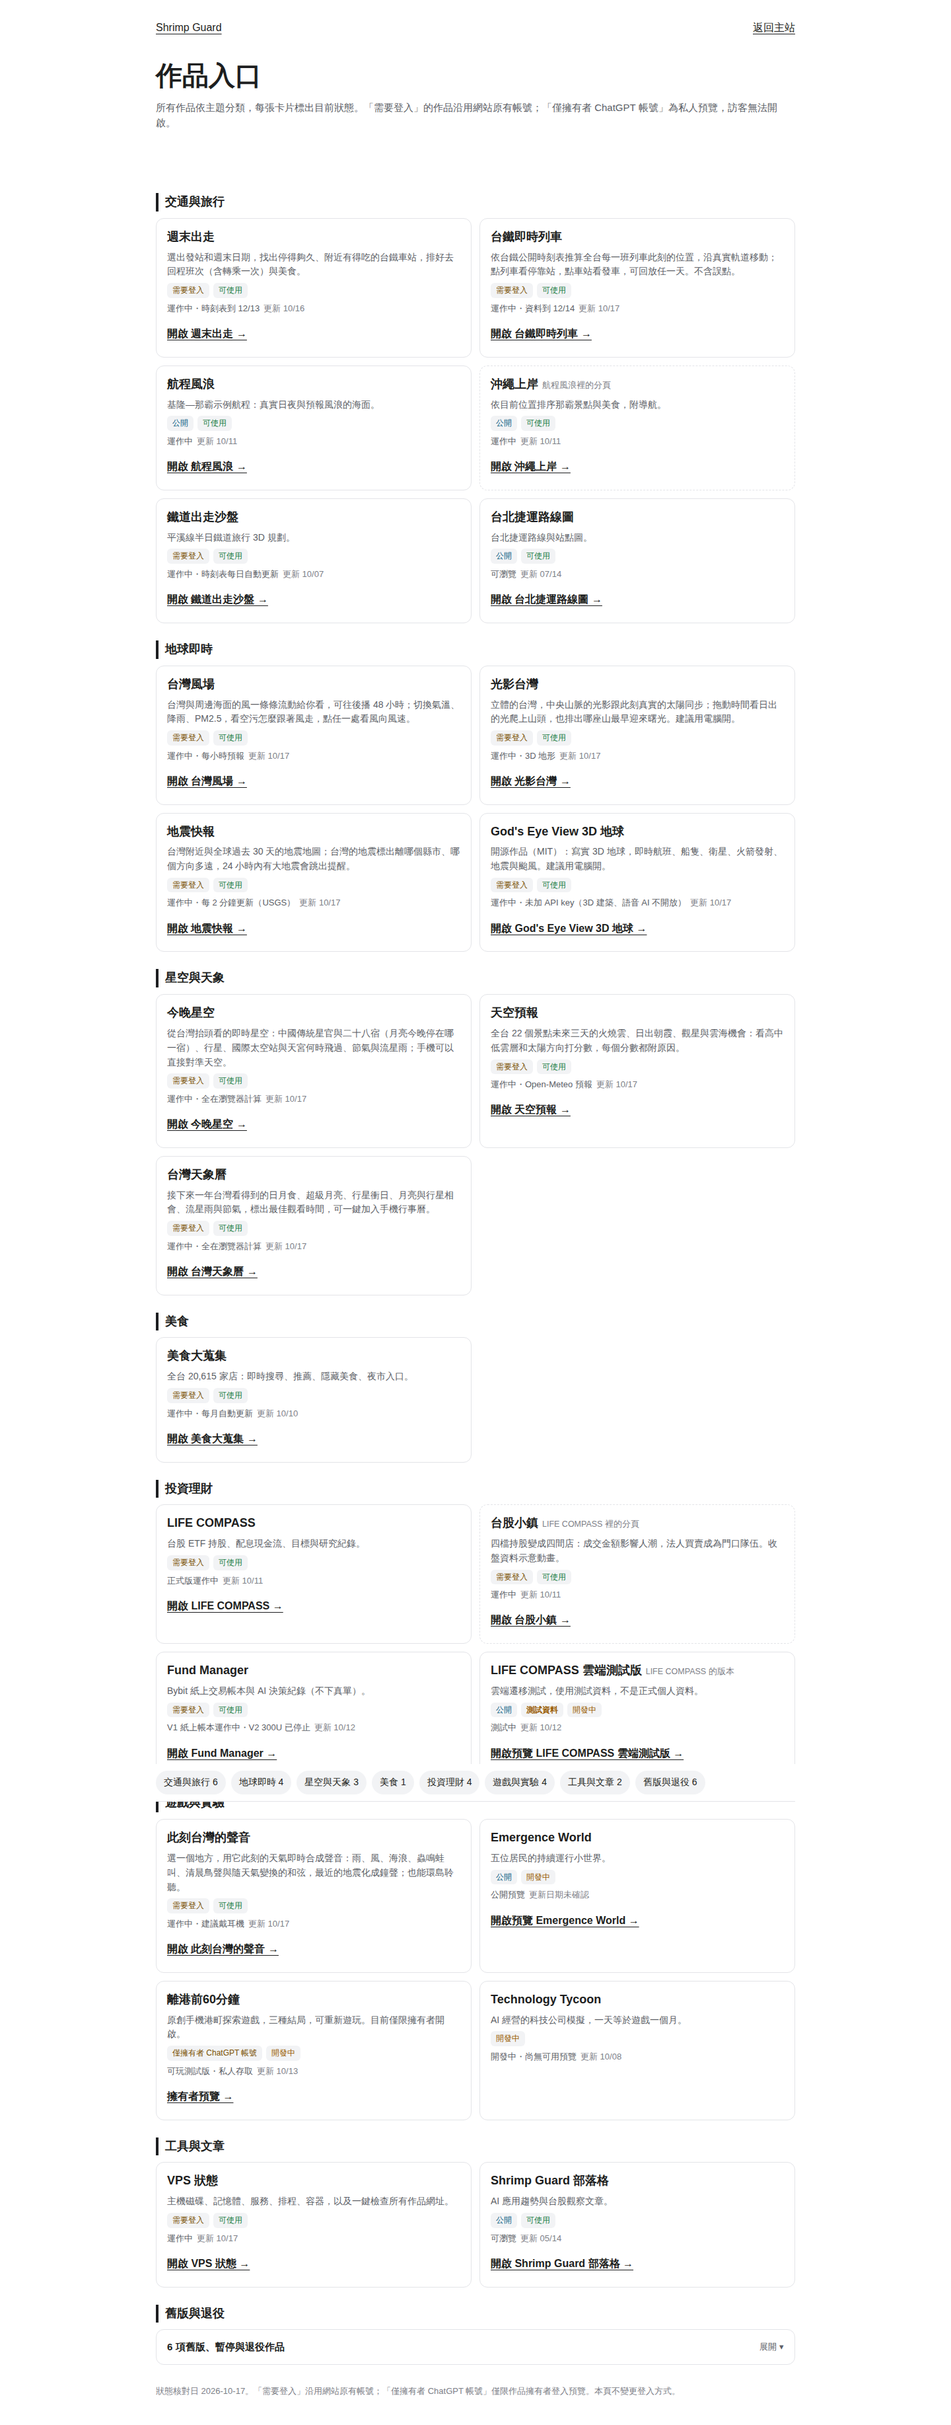
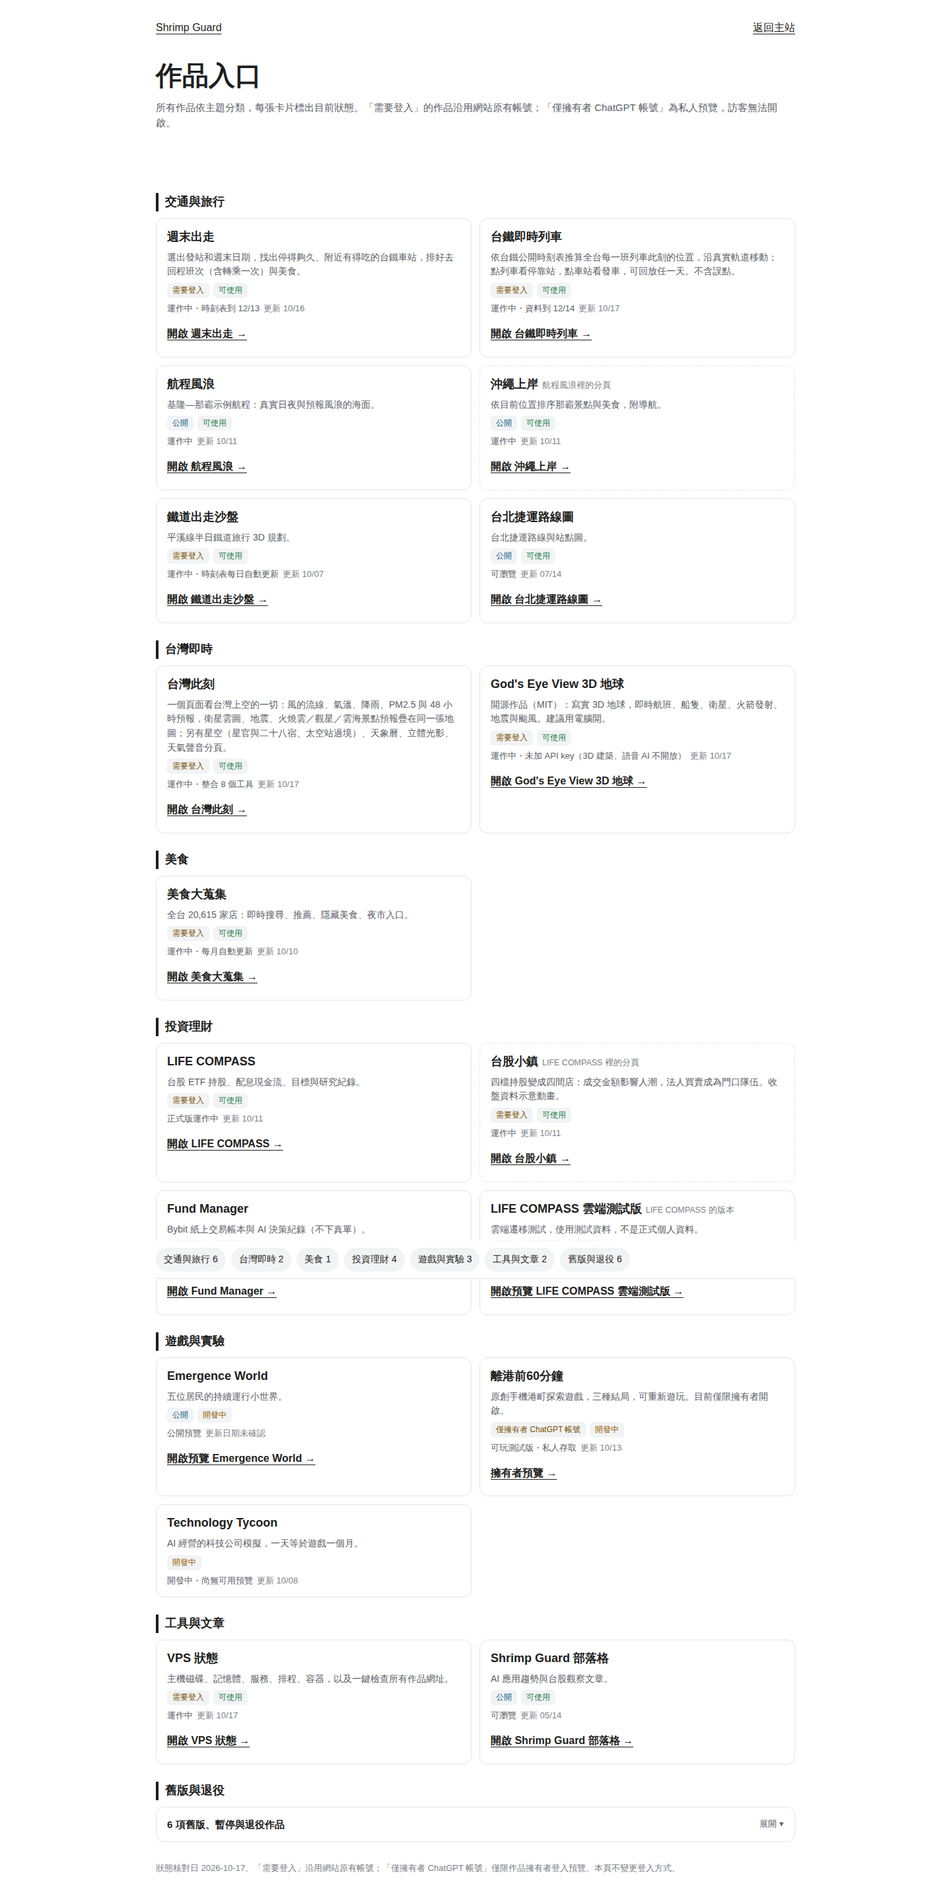
projects: merge 7 Taiwan sky/earth tools into one card 台灣此刻 (24 works)
Claude-Session: https://claude.ai/code/session_01GVcRfQhdVaSGc69DiKrmzk

diff --git a/overlays/projects/index.html b/overlays/projects/index.html
@@ -1,0 +1,28 @@
+<!doctype html><html lang="zh-Hant"><head><meta charset="utf-8"><meta name="viewport" content="width=device-width,initial-scale=1"><title>作品入口 · Shrimp Guard</title><meta name="description" content="Shrimp Guard 所有作品與目前狀態。"><style>
+:root{color-scheme:light dark;--bg:#fff;--card:#fff;--ink:#1d1e20;--ink2:#5b5e66;--ink3:#7d8087;--line:#e3e4e8;--chip:#f2f3f5;--ok:#1d7f46;--dev:#9a5c00;--old:#6c6f77;--ask:#5b43b0;--lock:#7a5000;--pub:#0a5f85}
+@media (prefers-color-scheme:dark){:root{--bg:#1d1e20;--card:#26272b;--ink:#dadadb;--ink2:#b0b2b7;--ink3:#8c8f96;--line:#38393e;--chip:#313237;--ok:#57c785;--dev:#e3a23a;--old:#a3a6ad;--ask:#ad98f2;--lock:#e5b864;--pub:#64bde4}}
+*{box-sizing:border-box}body{margin:0;background:var(--bg);color:var(--ink);font-family:-apple-system,BlinkMacSystemFont,"Segoe UI","PingFang TC","Noto Sans TC",sans-serif;line-height:1.55}
+.shell{max-width:1000px;margin:auto;padding:20px 16px 40px}
+nav.top{display:flex;justify-content:space-between;align-items:center}nav.top a{color:var(--ink);padding:10px 0;text-decoration:underline;text-underline-offset:4px}
+h1{font-size:clamp(28px,5vw,40px);margin:18px 0 6px}.intro{color:var(--ink2);margin:0;font-size:15px}
+.jump{position:sticky;top:0;z-index:2;background:var(--bg);display:flex;gap:8px;overflow-x:auto;padding:10px 0;margin-top:12px;border-bottom:1px solid var(--line)}
+.jump a{flex:none;font-size:14px;padding:7px 12px;border-radius:999px;background:var(--chip);color:var(--ink);text-decoration:none;white-space:nowrap}
+section{scroll-margin-top:60px}h2{font-size:18px;margin:26px 0 10px;padding-left:10px;border-left:4px solid var(--ink)}
+.grid{display:grid;grid-template-columns:repeat(2,minmax(0,1fr));gap:12px}
+.card{background:var(--card);border:1px solid var(--line);border-radius:12px;padding:14px 16px;display:flex;flex-direction:column;gap:6px;min-width:0}
+.card.sub{border-style:dashed}
+.name{font-size:18px;font-weight:700;margin:0}.of{font-size:12.5px;color:var(--ink3);font-weight:400;margin-left:6px}
+.desc{font-size:14px;color:var(--ink2);margin:0}
+.tags{display:flex;gap:6px;flex-wrap:wrap;margin:0;padding:0;list-style:none}
+.tags li{font-size:12px;padding:2px 8px;border-radius:6px;background:var(--chip);color:var(--ink2)}
+.tags .pub{color:var(--pub)}.tags .lock{color:var(--lock)}.tags .ok{color:var(--ok)}.tags .dev{color:var(--dev)}.tags .old{color:var(--old)}.tags .ask{color:var(--ask)}.tags .test{color:var(--dev);font-weight:700}
+.st{font-size:13px;color:var(--ink2);margin:0}.st time{color:var(--ink3);margin-left:6px}
+.open{margin:2px 0 0}.open a{display:inline-block;padding:8px 0;color:var(--ink);font-weight:700;text-decoration:underline;text-underline-offset:4px}
+details{border:1px solid var(--line);border-radius:12px;background:var(--card)}
+summary{cursor:pointer;padding:14px 16px;font-size:15px;font-weight:700;display:flex;justify-content:space-between;align-items:center}
+summary::-webkit-details-marker{display:none}summary::after{content:"展開 ▾";font-size:13px;font-weight:500;color:var(--ink2)}details[open] summary::after{content:"收合 ▴"}
+details .grid{padding:0 12px 12px}
+footer{margin-top:28px;font-size:13px;color:var(--ink3);line-height:1.8}
+a:focus-visible,summary:focus-visible{outline:3px solid #6797c0;outline-offset:4px}
+@media(max-width:600px){.grid{grid-template-columns:1fr}}
+</style></head><body><div class="shell"><nav class="top" aria-label="網站導覽"><a href="/">Shrimp Guard</a><a href="/">返回主站</a></nav><main><h1>作品入口</h1><p class="intro">所有作品依主題分類，每張卡片標出目前狀態。「需要登入」的作品沿用網站原有帳號；「僅擁有者 ChatGPT 帳號」為私人預覽，訪客無法開啟。</p><nav class="jump" aria-label="分類"><a href="#travel">交通與旅行 6</a><a href="#live">台灣即時 2</a><a href="#food">美食 1</a><a href="#money">投資理財 4</a><a href="#lab">遊戲與實驗 3</a><a href="#tools">工具與文章 2</a><a href="#old">舊版與退役 6</a></nav><section id="travel" aria-label="交通與旅行"><h2>交通與旅行</h2><div class="grid"><article class="card"><h3 class="name">週末出走</h3><p class="desc">選出發站和週末日期，找出停得夠久、附近有得吃的台鐵車站，排好去回程班次（含轉乘一次）與美食。</p><ul class="tags"><li class="lock">需要登入</li><li class="ok">可使用</li></ul><p class="st">運作中・時刻表到 12/13<time>更新 10/16</time></p><p class="open"><a href="https://dashboard.shrimp-guard.us.ci/weekend/">開啟 週末出走 →</a></p></article><article class="card"><h3 class="name">台鐵即時列車</h3><p class="desc">依台鐵公開時刻表推算全台每一班列車此刻的位置，沿真實軌道移動；點列車看停靠站，點車站看發車，可回放任一天。不含誤點。</p><ul class="tags"><li class="lock">需要登入</li><li class="ok">可使用</li></ul><p class="st">運作中・資料到 12/14<time>更新 10/17</time></p><p class="open"><a href="https://dashboard.shrimp-guard.us.ci/apps/rail-live/">開啟 台鐵即時列車 →</a></p></article><article class="card"><h3 class="name">航程風浪</h3><p class="desc">基隆—那霸示例航程：真實日夜與預報風浪的海面。</p><ul class="tags"><li class="pub">公開</li><li class="ok">可使用</li></ul><p class="st">運作中<time>更新 10/11</time></p><p class="open"><a href="/room/">開啟 航程風浪 →</a></p></article><article class="card sub"><h3 class="name">沖繩上岸<span class="of">航程風浪裡的分頁</span></h3><p class="desc">依目前位置排序那霸景點與美食，附導航。</p><ul class="tags"><li class="pub">公開</li><li class="ok">可使用</li></ul><p class="st">運作中<time>更新 10/11</time></p><p class="open"><a href="/room/#landing">開啟 沖繩上岸 →</a></p></article><article class="card"><h3 class="name">鐵道出走沙盤</h3><p class="desc">平溪線半日鐵道旅行 3D 規劃。</p><ul class="tags"><li class="lock">需要登入</li><li class="ok">可使用</li></ul><p class="st">運作中・時刻表每日自動更新<time>更新 10/07</time></p><p class="open"><a href="https://dashboard.shrimp-guard.us.ci/rail-trip/">開啟 鐵道出走沙盤 →</a></p></article><article class="card"><h3 class="name">台北捷運路線圖</h3><p class="desc">台北捷運路線與站點圖。</p><ul class="tags"><li class="pub">公開</li><li class="ok">可使用</li></ul><p class="st">可瀏覽<time>更新 07/14</time></p><p class="open"><a href="/taipei-mrt/">開啟 台北捷運路線圖 →</a></p></article></div></section><section id="live" aria-label="台灣即時"><h2>台灣即時</h2><div class="grid"><article class="card"><h3 class="name">台灣此刻</h3><p class="desc">一個頁面看台灣上空的一切：風的流線、氣溫、降雨、PM2.5 與 48 小時預報，衛星雲圖、地震、火燒雲／觀星／雲海景點預報疊在同一張地圖；另有星空（星官與二十八宿、太空站過境）、天象曆、立體光影、天氣聲音分頁。</p><ul class="tags"><li class="lock">需要登入</li><li class="ok">可使用</li></ul><p class="st">運作中・整合 8 個工具<time>更新 10/17</time></p><p class="open"><a href="https://dashboard.shrimp-guard.us.ci/apps/taiwan/">開啟 台灣此刻 →</a></p></article><article class="card"><h3 class="name">God&#x27;s Eye View 3D 地球</h3><p class="desc">開源作品（MIT）：寫實 3D 地球，即時航班、船隻、衛星、火箭發射、地震與颱風。建議用電腦開。</p><ul class="tags"><li class="lock">需要登入</li><li class="ok">可使用</li></ul><p class="st">運作中・未加 API key（3D 建築、語音 AI 不開放）<time>更新 10/17</time></p><p class="open"><a href="https://dashboard.shrimp-guard.us.ci/globe/">開啟 God&#x27;s Eye View 3D 地球 →</a></p></article></div></section><section id="food" aria-label="美食"><h2>美食</h2><div class="grid"><article class="card"><h3 class="name">美食大蒐集</h3><p class="desc">全台 20,615 家店：即時搜尋、推薦、隱藏美食、夜市入口。</p><ul class="tags"><li class="lock">需要登入</li><li class="ok">可使用</li></ul><p class="st">運作中・每月自動更新<time>更新 10/10</time></p><p class="open"><a href="https://dashboard.shrimp-guard.us.ci/food-map/">開啟 美食大蒐集 →</a></p></article></div></section><section id="money" aria-label="投資理財"><h2>投資理財</h2><div class="grid"><article class="card"><h3 class="name">LIFE COMPASS</h3><p class="desc">台股 ETF 持股、配息現金流、目標與研究紀錄。</p><ul class="tags"><li class="lock">需要登入</li><li class="ok">可使用</li></ul><p class="st">正式版運作中<time>更新 10/11</time></p><p class="open"><a href="https://dashboard.shrimp-guard.us.ci/one-life/">開啟 LIFE COMPASS →</a></p></article><article class="card sub"><h3 class="name">台股小鎮<span class="of">LIFE COMPASS 裡的分頁</span></h3><p class="desc">四檔持股變成四間店：成交金額影響人潮，法人買賣成為門口隊伍。收盤資料示意動畫。</p><ul class="tags"><li class="lock">需要登入</li><li class="ok">可使用</li></ul><p class="st">運作中<time>更新 10/11</time></p><p class="open"><a href="https://dashboard.shrimp-guard.us.ci/one-life/#town">開啟 台股小鎮 →</a></p></article><article class="card"><h3 class="name">Fund Manager</h3><p class="desc">Bybit 紙上交易帳本與 AI 決策紀錄（不下真單）。</p><ul class="tags"><li class="lock">需要登入</li><li class="ok">可使用</li></ul><p class="st">V1 紙上帳本運作中・V2 300U 已停止<time>更新 10/12</time></p><p class="open"><a href="https://dashboard.shrimp-guard.us.ci/fund-manager/">開啟 Fund Manager →</a></p></article><article class="card"><h3 class="name">LIFE COMPASS 雲端測試版<span class="of">LIFE COMPASS 的版本</span></h3><p class="desc">雲端遷移測試，使用測試資料，不是正式個人資料。</p><ul class="tags"><li class="pub">公開</li><li class="test">測試資料</li><li class="dev">開發中</li></ul><p class="st">測試中<time>更新 10/12</time></p><p class="open"><a href="https://life-compass.httpsmulticlawmoltidworkersdevcmolt32c002a10b29b0e3ad3.workers.dev/">開啟預覽 LIFE COMPASS 雲端測試版 →</a></p></article></div></section><section id="lab" aria-label="遊戲與實驗"><h2>遊戲與實驗</h2><div class="grid"><article class="card"><h3 class="name">Emergence World</h3><p class="desc">五位居民的持續運行小世界。</p><ul class="tags"><li class="pub">公開</li><li class="dev">開發中</li></ul><p class="st">公開預覽<time>更新日期未確認</time></p><p class="open"><a href="https://emergence-world-preview.httpsmulticlawmoltidworkersdevcmolt32c002a10b29b0e3ad3.workers.dev/">開啟預覽 Emergence World →</a></p></article><article class="card"><h3 class="name">離港前60分鐘</h3><p class="desc">原創手機港町探索遊戲，三種結局，可重新遊玩。目前僅限擁有者開啟。</p><ul class="tags"><li class="lock">僅擁有者 ChatGPT 帳號</li><li class="dev">開發中</li></ul><p class="st">可玩測試版・私人存取<time>更新 10/13</time></p><p class="open"><a href="https://harbor-sixty-minute-game.windy-maple-0615.chatgpt.site">擁有者預覽 →</a></p></article><article class="card"><h3 class="name">Technology Tycoon</h3><p class="desc">AI 經營的科技公司模擬，一天等於遊戲一個月。</p><ul class="tags"><li class="dev">開發中</li></ul><p class="st">開發中・尚無可用預覽<time>更新 10/08</time></p></article></div></section><section id="tools" aria-label="工具與文章"><h2>工具與文章</h2><div class="grid"><article class="card"><h3 class="name">VPS 狀態</h3><p class="desc">主機磁碟、記憶體、服務、排程、容器，以及一鍵檢查所有作品網址。</p><ul class="tags"><li class="lock">需要登入</li><li class="ok">可使用</li></ul><p class="st">運作中<time>更新 10/17</time></p><p class="open"><a href="https://dashboard.shrimp-guard.us.ci/apps/vps/">開啟 VPS 狀態 →</a></p></article><article class="card"><h3 class="name">Shrimp Guard 部落格</h3><p class="desc">AI 應用趨勢與台股觀察文章。</p><ul class="tags"><li class="pub">公開</li><li class="ok">可使用</li></ul><p class="st">可瀏覽<time>更新 05/14</time></p><p class="open"><a href="/">開啟 Shrimp Guard 部落格 →</a></p></article></div></section><section id="old" aria-label="舊版與退役"><h2>舊版與退役</h2><details><summary>6 項舊版、暫停與退役作品</summary><div class="grid"><article class="card"><h3 class="name">小王國</h3><p class="desc">手機王國遊戲（建設村莊、發布懸賞、英雄自行出任務）。</p><ul class="tags"><li class="old">舊版／暫停</li></ul><p class="st">暫停・素材成果保留<time>更新 10/12</time></p></article><article class="card"><h3 class="name">世界與我</h3><p class="desc">原入口保留中。</p><ul class="tags"><li class="pub">公開</li><li class="old">舊版／暫停</li></ul><p class="st">保留中<time>更新 10/08</time></p><p class="open"><a href="/world-impact/">開啟 世界與我 →</a></p></article><article class="card"><h3 class="name">美食大蒐集（公開版）<span class="of">美食大蒐集的版本</span></h3><p class="desc">曾規劃的 GitHub Pages 公開版本。</p><ul class="tags"><li class="old">舊版／暫停</li></ul><p class="st">暫停・正式版在美食大蒐集<time>更新 10/10</time></p></article><article class="card"><h3 class="name">ONE LIFE ／ AI Resident</h3><p class="desc">生活角色實驗，網址已由 LIFE COMPASS 接手。</p><ul class="tags"><li class="old">舊版／暫停</li></ul><p class="st">已退役<time>更新 10/01</time></p></article><article class="card"><h3 class="name">AI COMMONS ／ Latticefolk</h3><p class="desc">多模型社群與 AI 生活世界實驗。</p><ul class="tags"><li class="old">舊版／暫停</li></ul><p class="st">已退役<time>更新 09/30</time></p></article><article class="card"><h3 class="name">Fund Manager V2 300U<span class="of">Fund Manager 的版本</span></h3><p class="desc">300 USDT 雙向持倉紙上帳本。</p><ul class="tags"><li class="old">舊版／暫停</li></ul><p class="st">已停止・紀錄可在 Fund Manager 查看<time>更新 10/12</time></p></article></div></details></section></main><footer>狀態核對日 2026-10-17。「需要登入」沿用網站原有帳號；「僅擁有者 ChatGPT 帳號」僅限作品擁有者登入預覽。本頁不變更登入方式。</footer></div></body></html>

diff --git a/scripts/build_projects_entry.py b/scripts/build_projects_entry.py
@@ -8,12 +8,7 @@ D = 'https://dashboard.shrimp-guard.us.ci'
 CHECKED = '2026-10-17'
 # group: ok 可使用 / dev 開發中 / old 舊版／暫停 (collapsed) / ask 待確認 (no open button)
 WORKS = [
-    dict(c='sky', g='ok', name='今晚星空', desc='從台灣抬頭看的即時星空：中國傳統星官與二十八宿（月亮今晚停在哪一宿）、行星、國際太空站與天宮何時飛過、節氣與流星雨；手機可以直接對準天空。', url=D + '/apps/sky/', login=True, st='運作中・全在瀏覽器計算', date='10/17'),
-    dict(c='sky', g='ok', name='天空預報', desc='全台 22 個景點未來三天的火燒雲、日出朝霞、觀星與雲海機會：看高中低雲層和太陽方向打分數，每個分數都附原因。', url=D + '/apps/skycast/', login=True, st='運作中・Open-Meteo 預報', date='10/17'),
-    dict(c='live', g='ok', name='台灣風場', desc='台灣與周邊海面的風一條條流動給你看，可往後播 48 小時；切換氣溫、降雨、PM2.5，看空污怎麼跟著風走，點任一處看風向風速。', url=D + '/apps/wind/', login=True, st='運作中・每小時預報', date='10/17'),
-    dict(c='sky', g='ok', name='台灣天象曆', desc='接下來一年台灣看得到的日月食、超級月亮、行星衝日、月亮與行星相會、流星雨與節氣，標出最佳觀看時間，可一鍵加入手機行事曆。', url=D + '/apps/almanac/', login=True, st='運作中・全在瀏覽器計算', date='10/17'),
-    dict(c='live', g='ok', name='光影台灣', desc='立體的台灣，中央山脈的光影跟此刻真實的太陽同步；拖動時間看日出的光爬上山頭，也排出哪座山最早迎來曙光。建議用電腦開。', url=D + '/apps/relief/', login=True, st='運作中・3D 地形', date='10/17'),
-    dict(c='live', g='ok', name='地震快報', desc='台灣附近與全球過去 30 天的地震地圖；台灣的地震標出離哪個縣市、哪個方向多遠，24 小時內有大地震會跳出提醒。', url=D + '/apps/quake/', login=True, st='運作中・每 2 分鐘更新（USGS）', date='10/17'),
+    dict(c='live', g='ok', name='台灣此刻', desc='一個頁面看台灣上空的一切：風的流線、氣溫、降雨、PM2.5 與 48 小時預報，衛星雲圖、地震、火燒雲／觀星／雲海景點預報疊在同一張地圖；另有星空（星官與二十八宿、太空站過境）、天象曆、立體光影、天氣聲音分頁。', url=D + '/apps/taiwan/', login=True, st='運作中・整合 8 個工具', date='10/17'),
     dict(c='travel', g='ok', name='週末出走', desc='選出發站和週末日期，找出停得夠久、附近有得吃的台鐵車站，排好去回程班次（含轉乘一次）與美食。', url=D + '/weekend/', login=True, st='運作中・時刻表到 12/13', date='10/16'),
     dict(c='travel', g='ok', name='台鐵即時列車', desc='依台鐵公開時刻表推算全台每一班列車此刻的位置，沿真實軌道移動；點列車看停靠站，點車站看發車，可回放任一天。不含誤點。', url=D + '/apps/rail-live/', login=True, st='運作中・資料到 12/14', date='10/17'),
     dict(c='live', g='ok', name="God's Eye View 3D 地球", desc='開源作品（MIT）：寫實 3D 地球，即時航班、船隻、衛星、火箭發射、地震與颱風。建議用電腦開。', url=D + '/globe/', login=True, st='運作中・未加 API key（3D 建築、語音 AI 不開放）', date='10/17'),
@@ -28,7 +23,6 @@ WORKS = [
     dict(c='travel', g='ok', name='台北捷運路線圖', desc='台北捷運路線與站點圖。', url='/taipei-mrt/', login=False, st='可瀏覽', date='07/14'),
     dict(c='tools', g='ok', name='Shrimp Guard 部落格', desc='AI 應用趨勢與台股觀察文章。', url='/', login=False, st='可瀏覽', date='05/14'),
     dict(c='money', g='dev', name='LIFE COMPASS 雲端測試版', of='LIFE COMPASS 的版本', desc='雲端遷移測試，使用測試資料，不是正式個人資料。', url='https://life-compass.httpsmulticlawmoltidworkersdevcmolt32c002a10b29b0e3ad3.workers.dev/', login=False, test=True, st='測試中', date='10/12'),
-    dict(c='lab', g='ok', name='此刻台灣的聲音', desc='選一個地方，用它此刻的天氣即時合成聲音：雨、風、海浪、蟲鳴蛙叫、清晨鳥聲與隨天氣變換的和弦，最近的地震化成鐘聲；也能環島聆聽。', url=D + '/apps/sound/', login=True, st='運作中・建議戴耳機', date='10/17'),
     dict(c='lab', g='dev', name='Emergence World', desc='五位居民的持續運行小世界。', url='https://emergence-world-preview.httpsmulticlawmoltidworkersdevcmolt32c002a10b29b0e3ad3.workers.dev/', login=False, st='公開預覽', date=None),
     dict(c='lab', g='dev', name='離港前60分鐘', desc='原創手機港町探索遊戲，三種結局，可重新遊玩。目前僅限擁有者開啟。', url='https://harbor-sixty-minute-game.windy-maple-0615.chatgpt.site', login=True, access='僅擁有者 ChatGPT 帳號', btn='擁有者預覽', st='可玩測試版・私人存取', date='10/13'),
     dict(c='lab', g='dev', name='Technology Tycoon', desc='AI 經營的科技公司模擬，一天等於遊戲一個月。', url=None, st='開發中・尚無可用預覽', date='10/08'),
@@ -40,7 +34,7 @@ WORKS = [
     dict(c='old', g='old', name='Fund Manager V2 300U', of='Fund Manager 的版本', desc='300 USDT 雙向持倉紙上帳本。', url=None, st='已停止・紀錄可在 Fund Manager 查看', date='10/12'),
 ]
 GROUPS = [('ok', '可使用'), ('dev', '開發中'), ('old', '舊版／暫停')]  # status, shown as a tag on each card
-CATS = [('travel', '交通與旅行'), ('live', '地球即時'), ('sky', '星空與天象'), ('food', '美食'), ('money', '投資理財'), ('lab', '遊戲與實驗'), ('tools', '工具與文章'), ('old', '舊版與退役')]
+CATS = [('travel', '交通與旅行'), ('live', '台灣即時'), ('food', '美食'), ('money', '投資理財'), ('lab', '遊戲與實驗'), ('tools', '工具與文章'), ('old', '舊版與退役')]
 assert all(w['c'] in dict(CATS) for w in WORKS) and all((w['c'] == 'old') == (w['g'] == 'old') for w in WORKS)
 
 CSS = """
